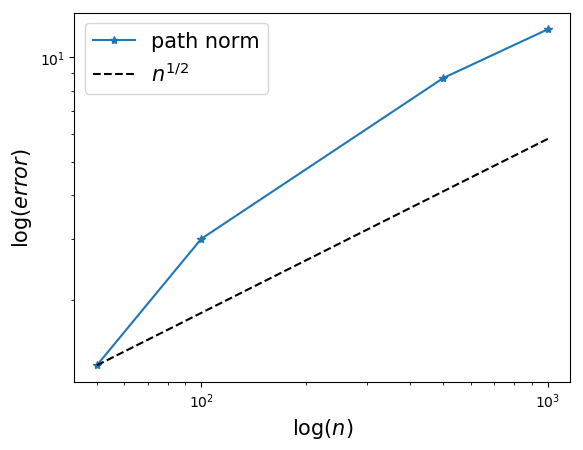
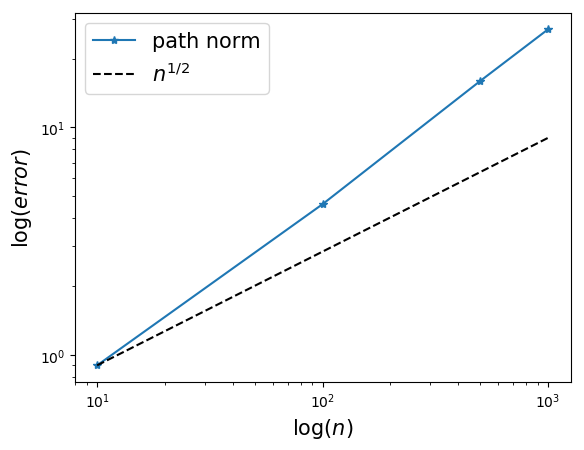
I forget what I did, but just want to back up for ensuring safety

diff --git a/mnist_train.py b/mnist_train.py
@@ -96,16 +96,17 @@ def main():
     argparser.add_argument('--lr', type=float, default=0.01)
     argparser.add_argument('--ntries', type=int, default=1)
     argparser.add_argument('--watch_lp', action='store_true')
-    argparser.add_argument('--gpuid', default='0')
+    argparser.add_argument('--device', default='cuda')
+    argparser.add_argument('--dir', default='checkpoints/')
     args = argparser.parse_args()
-    device = torch.device('cuda')
+    device = torch.device(args.device)
 
     # Data Load
     train_dl, test_dl = load_mnist(batch_size=args.batch_size,
                                    nsamples=args.nsamples,
                                    root='./data/mnist',
                                    one_hot=False,
-                                   classes=[3, 5])
+                                   classes=[3, 8])
 
     # repeat experiments of n times
     res_t = []
@@ -135,14 +136,14 @@ def main():
         'l2norm': l2norm
     }
 
-    file_prefix = 'mnist_wdth%d_lmbd%.0e_wd%.0e_lr%.1e_init%.1f_bz%d' % (
+    file_prefix = 'width%d_lmbd%.0e_wd%.0e_lr%.1e_init%.1f_bz%d_nsamples%d' % (
                   args.width, args.lmbd, args.weight_decay, args.lr, args.init_fac,
-                  args.batch_size)
+                  args.batch_size,args.nsamples)
 
     if args.watch_lp:
         watch_learning_process(records, file_prefix)
 
-    with open('checkpoints/%s_.pkl' % (file_prefix), 'wb') as f:
+    with open('%s/%s_.pkl' % (args.dir,file_prefix), 'wb') as f:
         pickle.dump(res, f)
 
 if __name__ == '__main__':

diff --git a/cifar_train.py b/cifar_train.py
@@ -96,9 +96,9 @@ def main():
     argparser.add_argument('--lr', type=float, default=0.01)
     argparser.add_argument('--ntries', type=int, default=1)
     argparser.add_argument('--watch_lp', action='store_true')
-    argparser.add_argument('--gpuid', default='0')
+    argparser.add_argument('--device', default='cuda')
     args = argparser.parse_args()
-    device = torch.device('cuda:2')
+    device = torch.device(args.device)
 
     # Data Load
     train_dl, test_dl = load_cifar(batch_size=args.batch_size,

diff --git a/basic_plt.py b/basic_plt.py
@@ -101,6 +101,13 @@ data = [
 	[1000,5.79e-2,2.3e-2,2.9e-2,1.2e1]
 ]
 
+data = [
+	[10,3.00e-1,1.4-1,2.9e-1,0.9],
+	[100,1.53e-1,7.2e-2,1.7e-1,4.6],
+	[500,9.33e-2,3.8e-2,1.5e-1,16],
+	[1000,7.98e-2,3.3e-2,1.3e-1,27]
+]
+
 data = np.asarray(data)
 xR= data[:,0]
 func_teacc = AsympRate(xR[0],data[0,3],slope=0.5)
